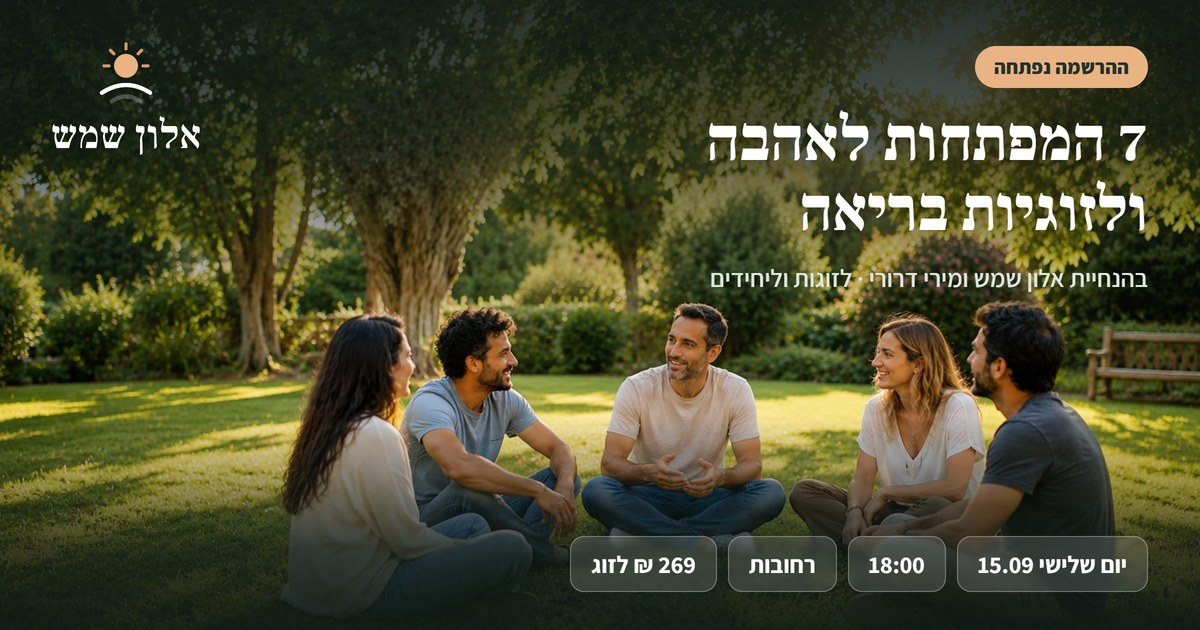
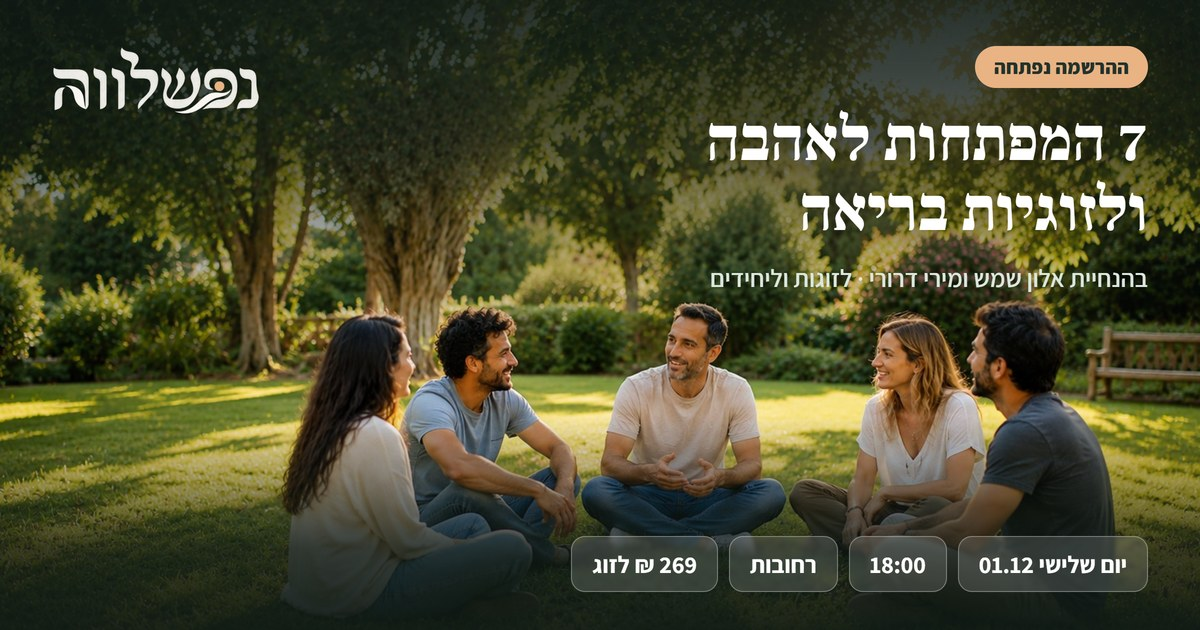
סמינר 01.12: פלייר בכרטיס החדש בעמוד הסדנאות + תמונת שיתוף /seminar מעודכנת (01.12 + לוגו נפשלווה)

Changed region(s): [[0.0308, 0.0603, 0.2158, 0.2413], [0.4933, 0.8746, 0.8633, 0.9349]]

diff --git a/seminar.html b/seminar.html
@@ -17,14 +17,14 @@
 <meta property="og:url" content="https://www.alonsms.com/seminar">
 <meta property="og:title" content="סמינר זוגיות ואהבה 01.12 ברחובות | הרשמה - נפשלווה">
 <meta property="og:description" content="ערב חווייתי אחד, שבעה מפתחות לזוגיות בריאה. 01.12 בשעה 18:00 ברחובות, 269 ₪ לזוג. מספר המקומות מוגבל - כנסו לפרטים.">
-<meta property="og:image" content="https://www.alonsms.com/assets/og/seminar.jpg?v=04b7bb4e">
+<meta property="og:image" content="https://www.alonsms.com/assets/og/seminar.jpg?v=a7c827fc">
 <meta property="og:image:width" content="1200">
 <meta property="og:image:height" content="630">
 <meta property="og:image:alt" content="נפשלווה - טיפול רגשי למבוגרים ונוער בשיטת NLP">
 <meta name="twitter:card" content="summary_large_image">
 <meta name="twitter:title" content="סמינר זוגיות ואהבה 01.12 ברחובות | הרשמה - נפשלווה">
 <meta name="twitter:description" content="ערב חווייתי אחד, שבעה מפתחות לזוגיות בריאה. 01.12 בשעה 18:00 ברחובות, 269 ₪ לזוג. מספר המקומות מוגבל - כנסו לפרטים.">
-<meta name="twitter:image" content="https://www.alonsms.com/assets/og/seminar.jpg?v=04b7bb4e">
+<meta name="twitter:image" content="https://www.alonsms.com/assets/og/seminar.jpg?v=a7c827fc">
 <link rel="preconnect" href="https://fonts.googleapis.com">
 <link rel="preconnect" href="https://fonts.gstatic.com" crossorigin>
 <link href="https://fonts.googleapis.com/css2?family=Assistant:wght@400;600;700;800&family=Frank+Ruhl+Libre:wght@500;700;900&display=swap" rel="stylesheet">

diff --git a/workshops.html b/workshops.html
@@ -108,7 +108,7 @@
     </div>
 
     <div class="card ws-card ws-featured reveal">
-      <div class="ws-side has-img"><img src="assets/ws-love-seminar.jpg" alt="סמינר זוגיות ואהבה 7 המפתחות - זוג בשיחה פתוחה, בהנחיית אלון שמש ומירי דרורי" loading="lazy" width="440" height="440"></div>
+      <div class="ws-side has-img"><img src="assets/card-seminar.jpg" alt="פלייר סמינר 7 המפתחות לאהבה ולזוגיות בריאה - 01.12.26 ברחובות, בהנחיית אלון שמש ומירי דרורי" loading="lazy" width="440" height="440"></div>
       <div class="ws-body">
         <span class="ws-badge">חדש - ההרשמה נפתחה</span>
         <h3>7 המפתחות לאהבה ולזוגיות בריאה</h3>
